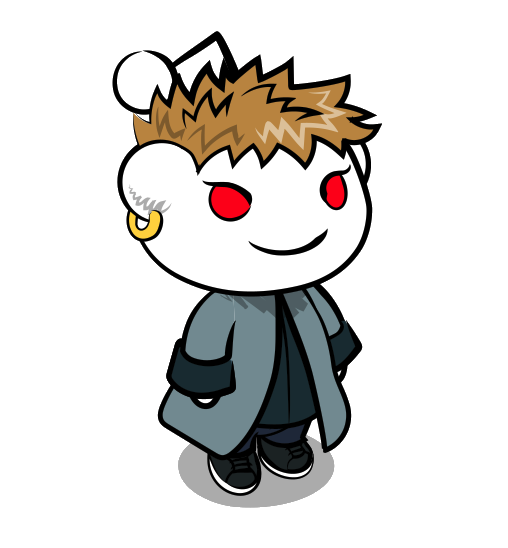
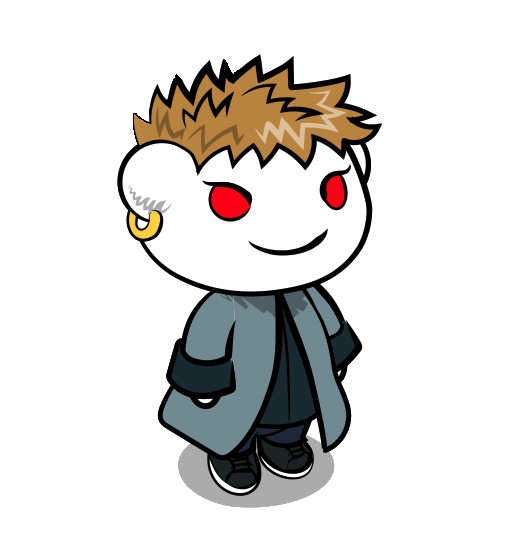
Update

diff --git a/index.html b/index.html
@@ -112,7 +112,7 @@
 							<div class="row">
 								<div class="col-4 col-12-mobile">
 									<article class="item">
-										<a target="_blank" href="https://minibolt.minibolt.info" class="image fit"><img src="images/logo_quater_minibolt_text.png" alt="" /></a>
+										<a target="_blank" href="https://minibolt.minibolt.info" class="image fit"><img src="images/logo_quater_minibolt_text.jpg" alt="" /></a>
 										<header>
 											<h2><a target="_blank" href="https://minibolt.minibolt.info">MiniBolt</a></h2>
 											<h5>Guía paso a paso para montar tu nodo Bitcoin y Lightning, y otras cosas en un <a target="_blank" href="https://es.wikipedia.org/wiki/Servidor">servidor</a>, <a target="_blank" href="https://es.wikipedia.org/wiki/Computadora_personal">PC o portátil</a>.</h5>
